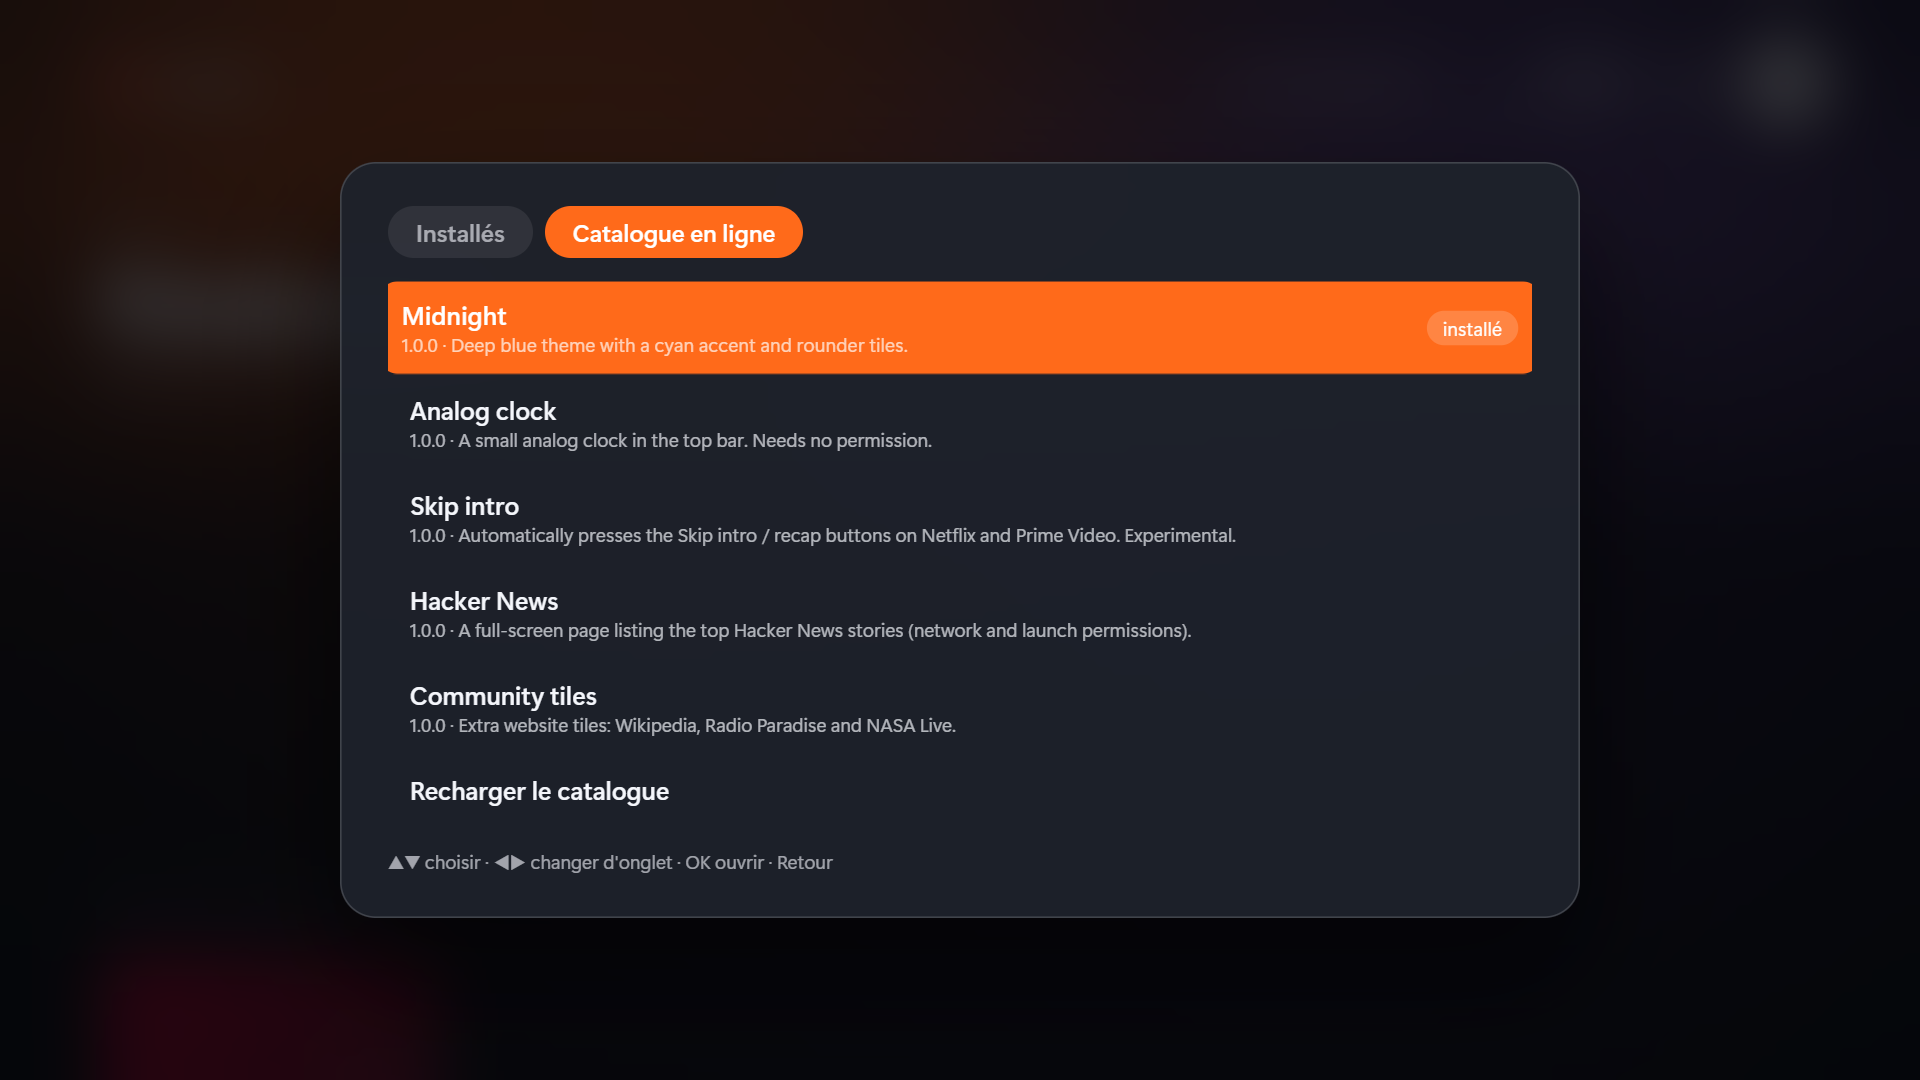
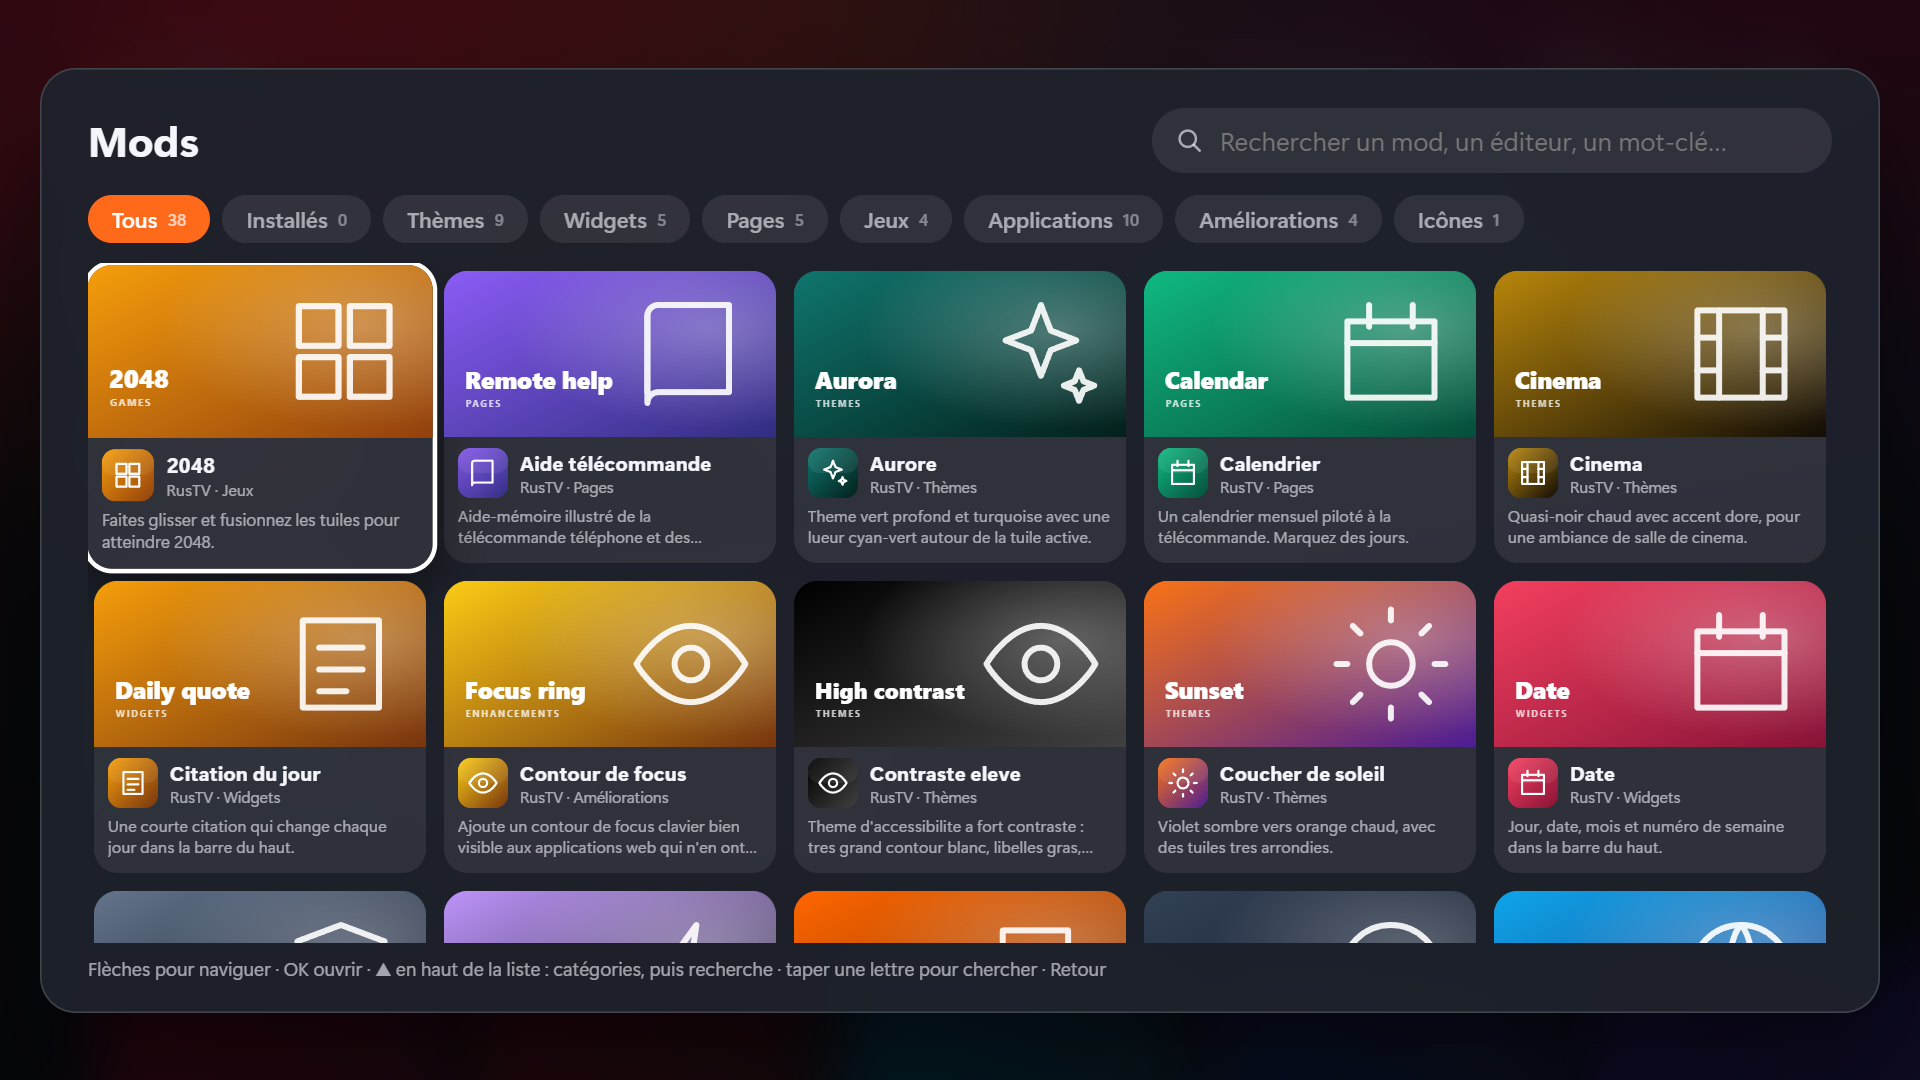
Mod store: 5 cards per row, tighter dependency list; new store screenshots

diff --git a/ui/src/lib/ModManager.svelte b/ui/src/lib/ModManager.svelte
@@ -294,7 +294,7 @@
 
   // ---------- clavier ----------
 
-  const COLS = 3;
+  const COLS = 5;
 
   function focusSearch() {
     area = 'search';
@@ -530,7 +530,7 @@
 </div>
 
 <style>
-  .sheet { width: 90rem; max-height: 50rem; display: flex; flex-direction: column; padding: 2rem 2.4rem 1.6rem; border-radius: 1.8rem; background: var(--sheet); box-shadow: 0 3rem 6rem rgba(0, 0, 0, 0.55), inset 0 0 0 0.08rem var(--glass-strong); color: var(--text); overflow: hidden; }
+  .sheet { width: 92rem; max-height: 50rem; display: flex; flex-direction: column; padding: 2rem 2.4rem 1.6rem; border-radius: 1.8rem; background: var(--sheet); box-shadow: 0 3rem 6rem rgba(0, 0, 0, 0.55), inset 0 0 0 0.08rem var(--glass-strong); color: var(--text); overflow: hidden; }
   header { display: flex; align-items: center; justify-content: space-between; gap: 2rem; margin-bottom: 1.1rem; }
   h2 { margin: 0; font-size: 2.1rem; }
   h3 { margin: 0 0 0.3rem; font-size: 2rem; }
@@ -546,22 +546,22 @@
   .chip i { font-style: normal; font-size: 0.85rem; opacity: 0.7; }
   .chip.on { background: var(--accent); color: #fff; }
   .chip.focus { transform: scale(1.08); box-shadow: 0 0 0 0.2rem var(--ring); }
-  .grid { display: grid; grid-template-columns: repeat(3, 1fr); gap: 1.2rem; overflow: hidden auto; scrollbar-width: none; padding: 0.4rem 0.3rem 0.8rem; min-height: 0; max-height: 33rem; }
+  .grid { display: grid; grid-template-columns: repeat(5, 1fr); gap: 0.9rem; overflow: hidden auto; scrollbar-width: none; padding: 0.4rem 0.3rem 0.8rem; min-height: 0; max-height: 34rem; }
   .card { display: flex; flex-direction: column; text-align: left; padding: 0; border: 0; border-radius: 1.2rem; overflow: hidden; background: var(--glass); color: var(--text); font: inherit; transition: transform 0.25s cubic-bezier(0.2, 0.8, 0.2, 1), box-shadow 0.25s; }
-  .card.sel { transform: scale(1.03); box-shadow: 0 0 0 0.22rem var(--ring), 0 1.4rem 2.6rem rgba(0, 0, 0, 0.45); }
+  .card.sel { transform: scale(1.04); box-shadow: 0 0 0 0.22rem var(--ring), 0 1.4rem 2.6rem rgba(0, 0, 0, 0.45); }
   .banner { position: relative; aspect-ratio: 2 / 1; display: grid; place-items: center; overflow: hidden; }
   .banner img { position: absolute; inset: 0; width: 100%; height: 100%; object-fit: cover; }
-  .banner .mono { font-size: 5rem; font-weight: 800; opacity: 0.35; }
-  .pill { position: absolute; top: 0.6rem; right: 0.6rem; padding: 0.15rem 0.7rem; border-radius: 99rem; background: rgba(0, 0, 0, 0.55); font-size: 0.85rem; font-weight: 600; }
-  .body { display: flex; align-items: center; gap: 0.8rem; padding: 0.7rem 0.9rem 0; }
-  .ico { width: 3.2rem; height: 3.2rem; flex: none; border-radius: 0.8rem; display: grid; place-items: center; overflow: hidden; font-weight: 800; font-size: 1.4rem; color: #fff; }
+  .banner .mono { font-size: 3.4rem; font-weight: 800; opacity: 0.35; }
+  .pill { position: absolute; top: 0.45rem; right: 0.45rem; padding: 0.1rem 0.55rem; border-radius: 99rem; background: rgba(0, 0, 0, 0.55); font-size: 0.72rem; font-weight: 600; }
+  .body { display: flex; align-items: center; gap: 0.6rem; padding: 0.55rem 0.7rem 0; }
+  .ico { width: 2.5rem; height: 2.5rem; flex: none; border-radius: 0.65rem; display: grid; place-items: center; overflow: hidden; font-weight: 800; font-size: 1.15rem; color: #fff; }
   .ico img { width: 100%; height: 100%; object-fit: cover; }
   .ico.lg { width: 6.4rem; height: 6.4rem; border-radius: 1.4rem; font-size: 2.6rem; }
   .tx { display: flex; flex-direction: column; min-width: 0; flex: 1; }
-  .tx b { font-size: 1.25rem; font-weight: 700; white-space: nowrap; overflow: hidden; text-overflow: ellipsis; }
-  .tx small { color: var(--muted); font-size: 0.9rem; white-space: nowrap; overflow: hidden; text-overflow: ellipsis; }
-  .mini { flex: none; font-size: 0.95rem; color: #f5c451; font-weight: 700; }
-  .d { margin: 0.4rem 0.9rem 0.9rem; font-size: 0.98rem; line-height: 1.35; color: var(--muted); display: -webkit-box; -webkit-line-clamp: 2; line-clamp: 2; -webkit-box-orient: vertical; overflow: hidden; min-height: 2.7em; }
+  .tx b { font-size: 1.02rem; font-weight: 700; white-space: nowrap; overflow: hidden; text-overflow: ellipsis; }
+  .tx small { color: var(--muted); font-size: 0.78rem; white-space: nowrap; overflow: hidden; text-overflow: ellipsis; }
+  .mini { flex: none; font-size: 0.8rem; color: #f5c451; font-weight: 700; }
+  .d { margin: 0.35rem 0.7rem 0.7rem; font-size: 0.82rem; line-height: 1.3; color: var(--muted); display: -webkit-box; -webkit-line-clamp: 2; line-clamp: 2; -webkit-box-orient: vertical; overflow: hidden; min-height: 2.7em; }
   .detail { display: grid; grid-template-columns: 34rem 1fr; gap: 2.2rem; min-height: 0; max-height: 44rem; overflow: hidden; }
   .banner.big { border-radius: 1.2rem; }
   aside { display: flex; flex-direction: column; gap: 1rem; }
@@ -574,7 +574,9 @@
   .det { margin: 0.4rem 0; font-size: 1.1rem; line-height: 1.5; color: var(--muted); }
   ul { margin: 0 0 0.6rem; padding-left: 1.3rem; font-size: 1.1rem; line-height: 1.6; }
   ul.deps { list-style: none; padding: 0; }
-  ul.deps li { display: flex; align-items: baseline; gap: 0.6rem; flex-wrap: wrap; }
+  ul.deps li { display: block; padding-left: 1.4rem; text-indent: -1.4rem; margin-bottom: 0.25rem; }
+  ul.deps li .dot { margin-right: 0.6rem; text-indent: 0; }
+  ul.deps li b { margin-right: 0.5rem; }
   ul.deps small { color: var(--muted); font-size: 0.95rem; }
   .dot { width: 0.8rem; height: 0.8rem; border-radius: 50%; background: var(--muted); display: inline-block; }
   .dot.ok { background: #3ecf8e; }
